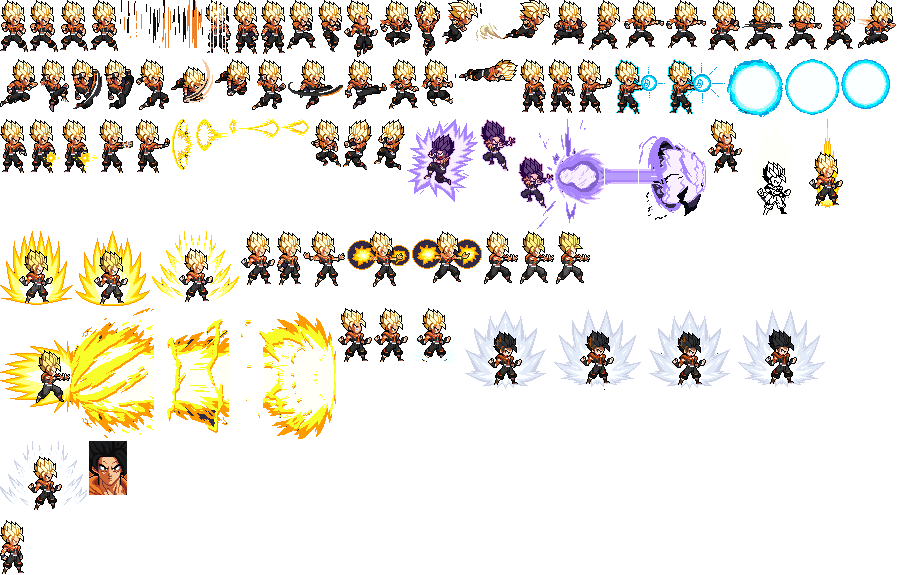
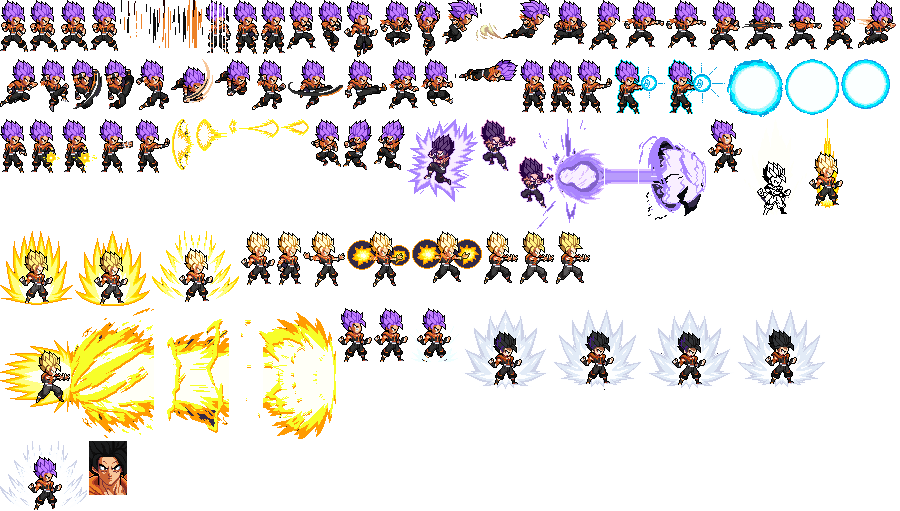
SamuLord: remove as 9 formas, cria 'Espectro Violeta' (forma própria)
Claude-Session: https://claude.ai/code/session_013gR3HaFkwpdViyVepxCnDX

diff --git a/js/char-select.js b/js/char-select.js
@@ -36,12 +36,12 @@ S.register('characters', { title: 'Personagem', sticky: true, noFocus: true, bui
   hs([954, 6, 86, 42], 'Configurações', () => S.open('options')); hs([1062, 6, 134, 42], 'Fechar', () => S.close()); hs([24, 722, 184, 48], 'Voltar', () => S.close());
   /* transformações (SamuLord): compra com moedas e escolha da forma em uso */
   const fbtn = el('button', 'cs-forms-btn', { type: 'button', textContent: '⚡ TRANSFORMAÇÕES' }); fbtn.style.cssText = 'left:96px;top:300px;width:250px;height:46px'; st.append(fbtn);
-  const fov = el('div', 'cs-fov'); fov.style.cssText = 'left:300px;top:36px;width:610px;height:446px'; st.append(fov);
+  const fov = el('div', 'cs-fov'); fov.style.cssText = 'left:400px;top:90px;width:420px;height:auto'; st.append(fov);
   const fmsg = { t: '' };
   function drawForms() {
     fov.replaceChildren(); const F = SL.Forms; if (!F) return;
-    const head = el('div', 'cs-fh'); head.append(el('b', '', { textContent: 'TRANSFORMAÇÕES · SAMULORD' }), Object.assign(el('button', 'cs-fx', { type: 'button', textContent: '✕' }), { onclick: () => { fov.classList.remove('on'); } })); fov.append(head);
-    const grid = el('div', 'cs-fg'); fov.append(grid);
+    const head = el('div', 'cs-fh'); head.append(el('b', '', { textContent: 'TRANSFORMAÇÃO · SAMULORD' }), Object.assign(el('button', 'cs-fx', { type: 'button', textContent: '✕' }), { onclick: () => { fov.classList.remove('on'); } })); fov.append(head);
+    const grid = el('div', 'cs-fg'); grid.style.gridTemplateColumns = F.list.length > 3 ? '1fr 1fr' : '1fr'; fov.append(grid);
     F.list.forEach(f => { const own = F.owned(f.id), cur = F.sel() === f, r = el('div', 'cs-fr' + (cur ? ' cur' : '')), c = el('canvas', '', { width: 44, height: 56 }), info = el('div', 'cs-fi');
       const dr = () => { const x = c.getContext('2d'), fr = SL.SAMULORD.frames[f.idle]; x.imageSmoothingEnabled = false; x.clearRect(0, 0, 44, 56); if (f.img.complete && f.img.naturalWidth) x.drawImage(f.img, fr.x, fr.y, fr.w, fr.h, 22 - fr.w * .5 | 0, 55 - fr.h * 1.0 | 0, fr.w, fr.h); }; dr(); if (!f.img.complete) f.img.addEventListener('load', dr, { once: true });
       info.append(el('b', '', { textContent: f.name }), el('span', '', { textContent: 'Dano ×' + String(f.dmg).replace('.', ',') + ' · Vel. ×' + String(f.speed).replace('.', ',') }));

diff --git a/js/samulord-forms.js b/js/samulord-forms.js
@@ -1,24 +1,12 @@
-/* Transformações do SamuLord (compradas com moedas). Cada forma troca o cabelo (folha própria assets/characters/samulord/formN.png) e dá bônus.
+/* Transformações do SamuLord (compradas com moedas). A forma troca o cabelo (folha assets/characters/samulord/form1.png) e dá bônus.
    Só vale para o SamuLord: Z (PC) / botão TF (celular) assume a forma escolhida; Z de novo volta ao normal. Dura 25 s, custa 30 Ki. */
 (() => {
 'use strict';
 const SM = SL.SAMULORD; if (!SM) return;
-const DEF = [   // id, nome, preço, dano×, velocidade×, cor da aura, tamanho do sprite parado (da folha)
-  ['ssj',   'Super Saiyajin',          500,   1.25, 1.05, '#ffe45a', 24, 54],
-  ['ssj2',  'Super Saiyajin 2',        900,   1.35, 1.08, '#ffd23a', 26, 55],
-  ['ssj3',  'Super Saiyajin 3',        1500,  1.50, 1.10, '#ffc21a', 35, 55],
-  ['ssj4',  'Super Saiyajin 4',        2500,  1.65, 1.12, '#ff3b4a', 32, 55],
-  ['ui',    'Instinto Superior',       4000,  1.85, 1.18, '#dfe8ff', 39, 55],
-  ['ssg',   'Super Saiyajin God',      6000,  2.00, 1.20, '#ff4f7e', 24, 54],
-  ['ssb',   'Super Saiyajin Blue',     8500,  2.20, 1.22, '#35e6ff', 24, 54],
-  ['ssbe',  'Blue Evoluído',           12000, 2.45, 1.25, '#2aa8ff', 26, 55],
-  ['orange','Super Saiyajin Laranja',  16000, 2.70, 1.28, '#ff8a3a', 28, 56]
+const DEF = [   // criada pelo jogo: cabelo violeta elétrico (a folha form1.png recolore o cabelo do SamuLord em todas as animações)
+  ['violeta', 'Espectro Violeta', 2500, 1.7, 1.15, '#b36bff']
 ];
-const base = SM.frames.length;
-const FORMS = DEF.map(([id, name, price, dmg, speed, aura, w, h], i) => {
-  SM.frames.push({ x: i * 40, y: 520, w, h, ax: Math.floor(w / 2), ay: h });   // quadro "parado" da forma (cada folha tem só o próprio no seu lugar)
-  return { id, name, price, dmg, speed, aura, n: i + 1, idle: base + i, img: Object.assign(new Image(), { src: `assets/characters/samulord/form${i + 1}.png` }) };
-});
+const FORMS = DEF.map(([id, name, price, dmg, speed, aura], i) => ({ id, name, price, dmg, speed, aura, n: i + 1, idle: SM.anims.idle.f[0], img: Object.assign(new Image(), { src: `assets/characters/samulord/form${i + 1}.png` }) }));
 const P = SL.Profile, byId = id => FORMS.find(f => f.id === id) || null;
 const own = () => (P.forms ||= []);
 SL.Forms = {

diff --git a/js/fighter.js b/js/fighter.js
@@ -445,7 +445,6 @@ class Fighter {
     else if (this.state === 'dash') { const D = segAt(this.def.dash.seq, this.t) || { seg: this.def.dash.seq[this.def.dash.seq.length - 1], ts: 1 }, s = D.seg; fi = s.f[Math.floor(D.ts * s.fps) % s.f.length]; this._fx = s.fx ? s.fx[Math.min(s.fx.length - 1, Math.floor(D.ts * (s.fxFps || 12)))] : null; }
     else fi = frameAt(this.def, animOf(this, this.state), this.t);
     const flyMv = this.state === 'fly' && (b.flying || b.climbing) && this.def.anims.flyMove && Math.abs(b.vx) > 30; if (flyMv) fi = frameAt(this.def, 'flyMove', this.t);   // voando para o lado: quadro de voo em movimento (se o personagem tiver)
-    if (this.skin && this.state === 'idle') fi = this.skin.idle;   // parado: quadro oficial da forma
     const f = this.def.frames[fi];
     ctx.save(); if (this.flash > 0 && Math.floor(this.flash * 30) % 2) ctx.globalAlpha = .45;
     const k = this.state === 'charge' ? Math.min(1, this.t / CFG.charge.dur) : this.state === 'energy' ? Math.max(0, 1 - this.t / CFG.power.dur) : (this.state === 'transform' || this.state === 'meditate' || this.state === 'sun') ? Math.min(1, .35 + this.t) : 0;
